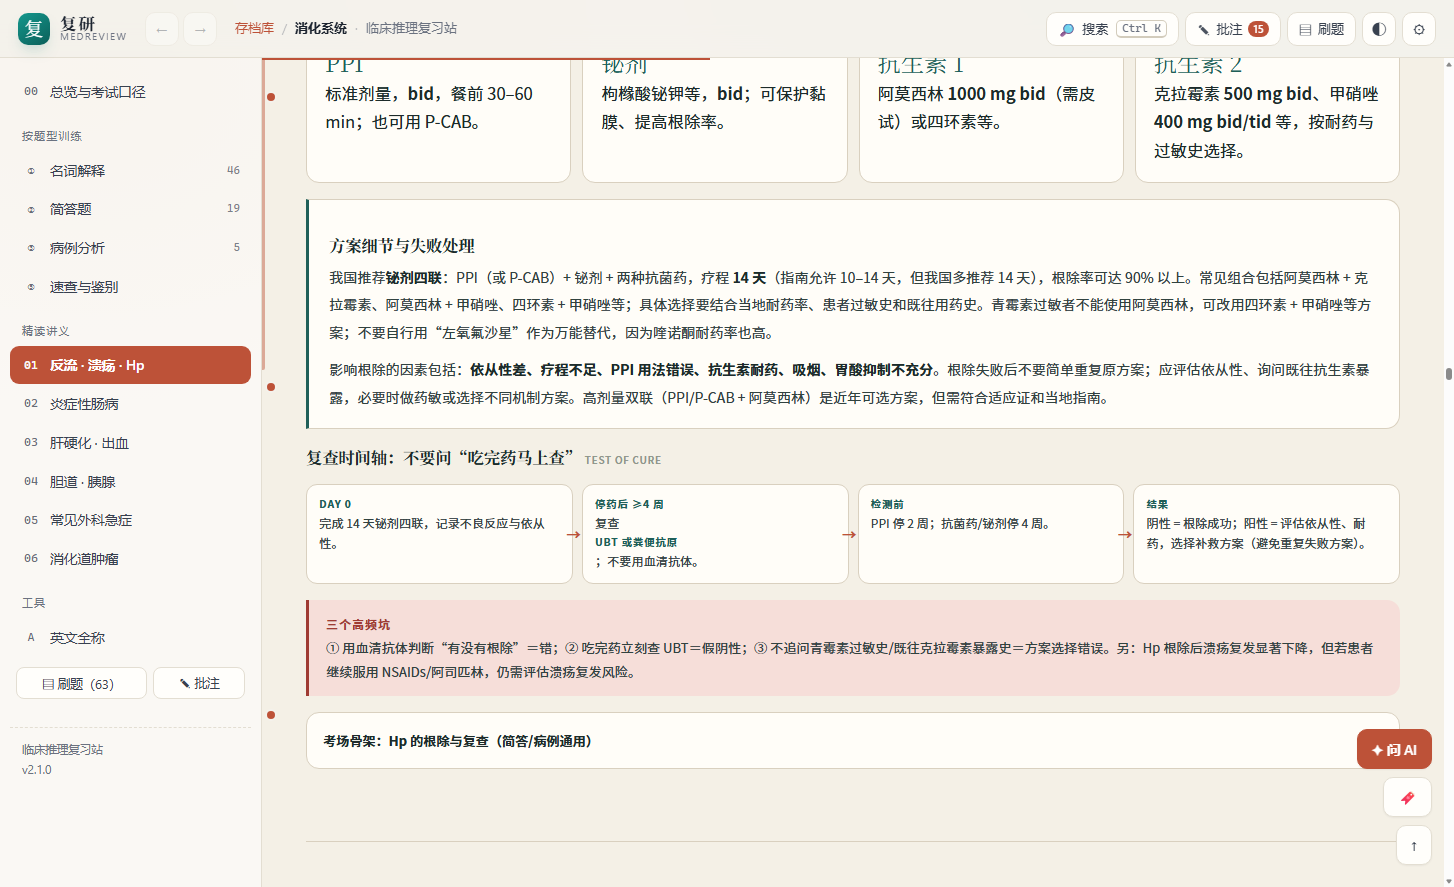
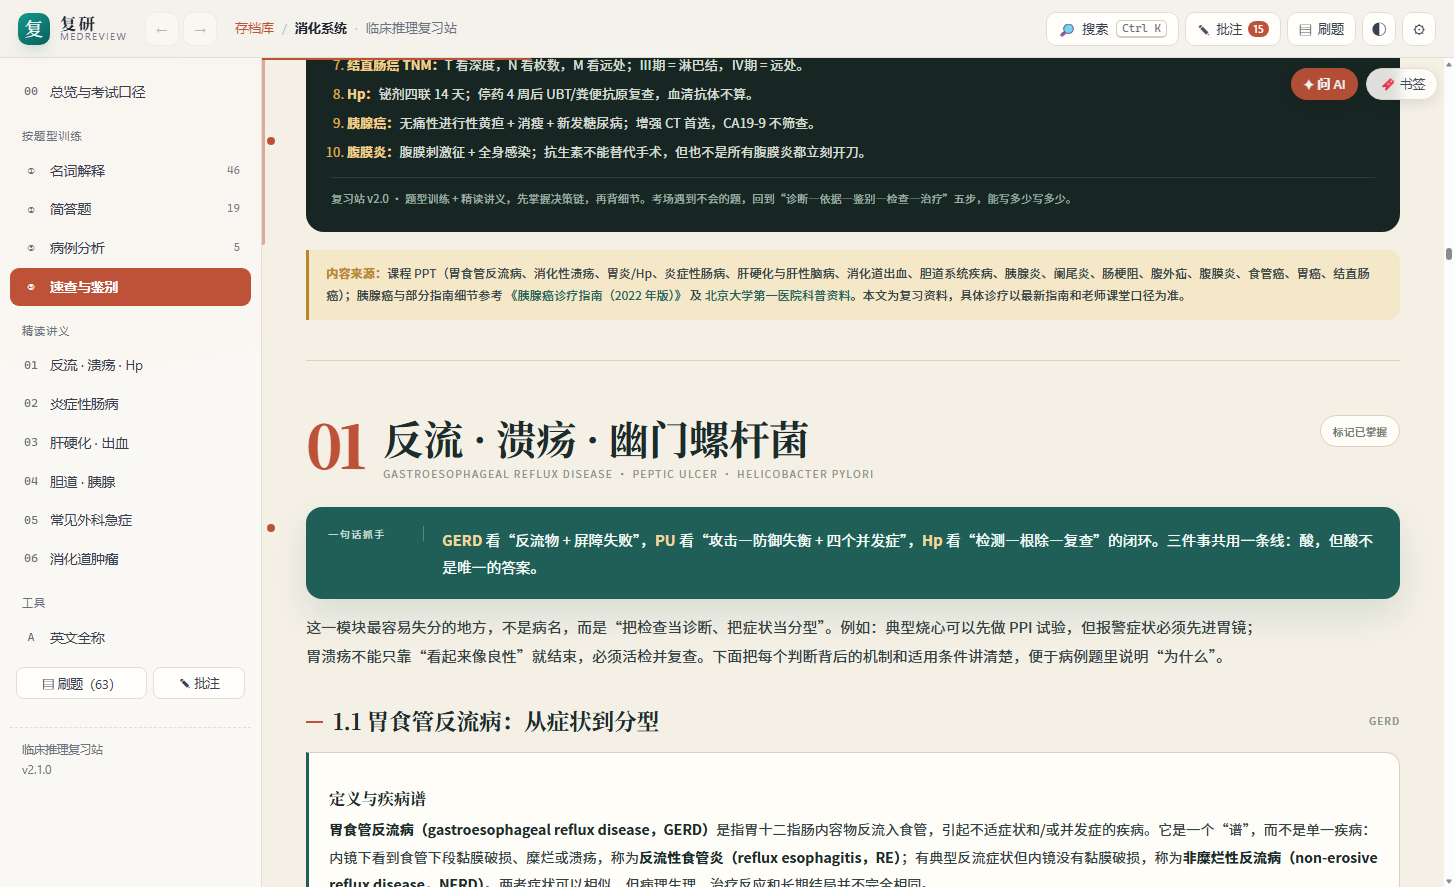
style(reader): 问 AI / 书签移到右上角，去掉回到顶部按钮

diff --git a/fuyan/web/js/reader.js b/fuyan/web/js/reader.js
@@ -51,10 +51,9 @@ export async function render(params, query) {
     <iframe id="reader-frame" title="${esc(manifest.title)}" src="/archive/${encodeURIComponent(id)}/content.html" style="opacity:0;visibility:hidden;transition:opacity .1s ease"></iframe>
     <div id="reader-veil" style="position:absolute;inset:0;background:var(--bg);z-index:2"></div>
     <div class="reader-loading" id="reader-loading">正在载入内容…</div>
-    <div class="reader-fab">
+    <div class="reader-actions">
       <button class="btn primary" id="reader-ai" title="问 DeepSeek（也可以先选中正文）">✦ 问 AI</button>
-      <button class="btn" id="reader-bookmark" title="在当前位置加书签（左键标记跳转 · 右键删除）">🔖</button>
-      <button class="btn" id="reader-top" title="回到顶部">↑</button>
+      <button class="btn" id="reader-bookmark" title="在当前位置加书签（左键标记跳转 · 右键删除）">🔖 书签</button>
     </div>
   </div>`;
 
@@ -62,9 +61,6 @@ export async function render(params, query) {
   bindDrawer();
   $('#reader-ai').onclick = () => openChat();
   $('#reader-bookmark').onclick = () => addBookmark();
-  $('#reader-top').onclick = () => {
-    if (state.reader && state.reader.fy) state.reader.fy.api.scrollToY(0);
-  };
 
   const setup = () => {
     const w = iframe.contentWindow;

diff --git a/fuyan/web/css/app.css b/fuyan/web/css/app.css
@@ -194,8 +194,10 @@ label.field>small{display:block;font-size:11.5px;color:var(--muted);margin-top:4
 .reader iframe{flex:1;width:100%;border:0;background:#fff;display:block;height:100%}
 .reader.loading{background:var(--panel)}
 .reader-loading{position:absolute;inset:0;display:grid;place-items:center;color:var(--muted);font-size:13px;pointer-events:none}
-.reader-fab{position:fixed;right:22px;bottom:22px;z-index:40;display:flex;flex-direction:column;gap:8px;align-items:flex-end}
-.reader-fab .btn{height:40px;box-shadow:var(--shadow)}
+.reader-actions{position:absolute;top:10px;right:16px;z-index:6;display:flex;gap:8px;align-items:center}
+.reader-actions .btn{height:32px;padding:0 12px;border-radius:999px;background:color-mix(in srgb, var(--panel) 92%, transparent);backdrop-filter:blur(6px);box-shadow:0 4px 14px rgba(0,0,0,.10);opacity:.94;font-size:12.5px}
+.reader-actions .btn:hover{opacity:1}
+.reader-actions .btn.primary{background:var(--accent);color:#fff;border-color:transparent}
 .reader-progress{position:absolute;left:0;right:0;top:0;height:2px;background:transparent;z-index:3}
 .reader-progress i{display:block;height:100%;width:0;background:var(--accent);transition:width .15s}
 .reader-rail{position:absolute;left:0;top:0;bottom:0;width:14px;z-index:5;pointer-events:none}

diff --git a/fuyan/README.md b/fuyan/README.md
@@ -57,7 +57,7 @@ node server.js --port 5300     # 指定端口
 |---|---|
 | **存档库** | 导入（本地 .zip / 链接 / GitHub 在线存档）、删除、导出、发布到网盘（作者通道） |
 | **阅读** | 存档自带原站样式与排版；按大章节跳转、滚动联动、阅读位置记忆、深浅色；左上角 ←/→ 前进后退（Alt+←/→） |
-| **书签** | 阅读页右下角 🔖 在当前位置加书签；左侧进度栏出现圆点，左键跳转、右键删除，数量不限 |
+| **书签** | 阅读页右上角「🔖 书签」在当前位置加书签；左侧进度栏出现圆点，左键跳转、右键删除，数量不限 |
 | **全站搜索** | `Ctrl+K`：章节 / 小标题 / 题目 / 批注一起搜，回车直达 |
 | **刷题** | 顺序/随机 · 快速/正常/背题 · 全部/未做/做错/已做/收藏 · 专题/标签筛选 · 模拟卷 30 题 · 题号面板 · 断点续刷 · 完成页 |
 | **批注** | 选中文字 → 「批注 / 问 DeepSeek / 站内查」；长按（0.6 秒）自动选中整句；批注永远贴在原文位置；管理页统一查看/定位/删除；正文里点高亮也能看/改/删；**同一段文字只有一条批注**，再编辑就是改这一条 |
